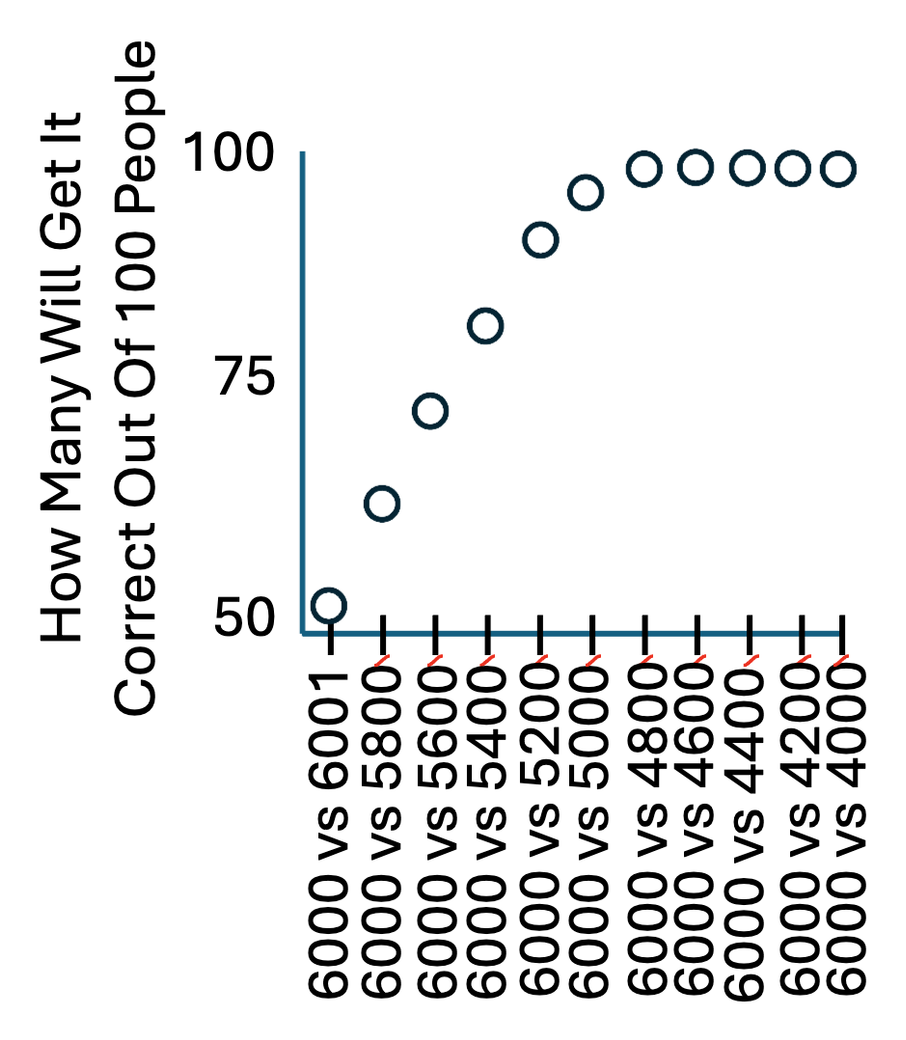
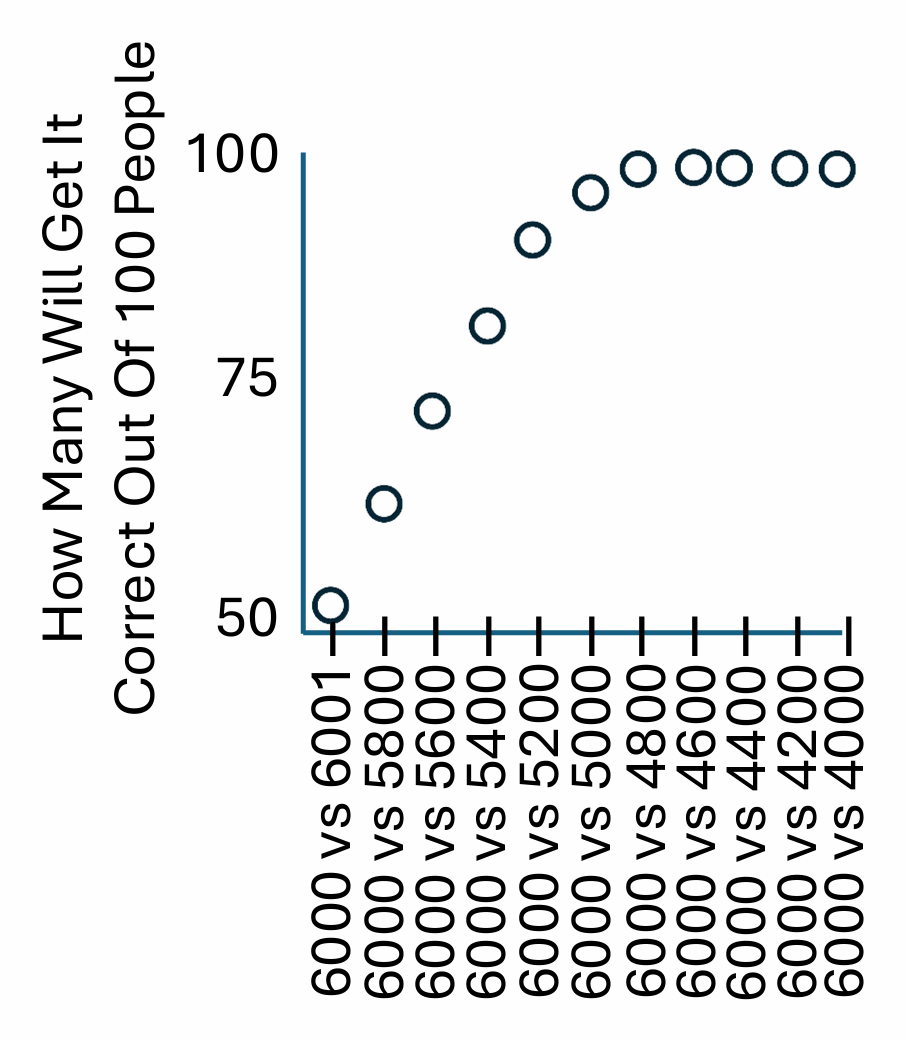
Swap to Only 2: Change Final Screen, Quotes, Fix H.png

diff --git a/PredictStimuliDiff/predict-stimuli-diff/app/pages.ts b/PredictStimuliDiff/predict-stimuli-diff/app/pages.ts
@@ -22,6 +22,7 @@ export type Page = {
   text: string;
   images?: Image[];
   layout?: "row" | "grid"; // how to arrange multiple images (default "row")
+  gapClass?: string; // optional Tailwind override for the spacing between images
   waitSeconds: number;
   requireSelection?: boolean;
   record?: boolean; // record the response (order + selection) when leaving the page
@@ -58,7 +59,7 @@ export const PAGES: Page[] = [
   },
   {
     id: "five-graphs",
-    text: "You will be presented with 6 different graphs that show the possible outcomes from many such comparisons and your job will be to decide which one appears to be the correct graph.",
+    text: "You will be presented with 2 different graphs that show the possible outcomes from many such comparisons and your job will be to decide which one appears to be the correct graph.",
     waitSeconds: 5,
   },
   {
@@ -93,7 +94,7 @@ export const PAGES: Page[] = [
   },
   {
     id: "preview",
-    text: "Now, imagine all of the possible combinations in between these two values. How do you expect the figure to look after many experimental trials of these sorts? We’ll show you 6 possible graphs.",
+    text: "Now, imagine all of the possible combinations in between these two values. How do you expect the figure to look after many experimental trials of these sorts? We’ll show you 2 possible graphs.",
     images: [{ src: "/E.png", alt: "Graph with only the easiest and hardest trials marked" }],
     waitSeconds: 5,
   },
@@ -101,14 +102,10 @@ export const PAGES: Page[] = [
     id: "question",
     text: "For each comparison dot, how many people out of 100 will choose the correct bag? Which pattern do you feel is the most likely to match the actual performance of regular human participants (choose one).",
     images: [
-      { src: "/F.png", alt: "Candidate graph 1", selectable: true },
-      { src: "/G.png", alt: "Candidate graph 2", selectable: true },
-      { src: "/H.png", alt: "Candidate graph 3", selectable: true },
-      { src: "/I.png", alt: "Candidate graph 4", selectable: true },
-      { src: "/J.png", alt: "Candidate graph 5", selectable: true },
-      { src: "/K.png", alt: "Candidate graph 6", selectable: true },
+      { src: "/G.png", alt: "Candidate graph 1", selectable: true, sizeClass: "max-h-[55vh] w-auto" },
+      { src: "/H.png", alt: "Candidate graph 2", selectable: true, sizeClass: "max-h-[55vh] w-auto" },
     ],
-    layout: "grid",
+    gapClass: "gap-16",
     waitSeconds: 10,
     requireSelection: true,
     record: true,

diff --git a/PredictStimuliDiff/predict-stimuli-diff/app/Experiment.tsx b/PredictStimuliDiff/predict-stimuli-diff/app/Experiment.tsx
@@ -73,8 +73,8 @@ export default function Experiment() {
   const order = orders[page.id] ?? images.map((_, i) => i);
   const containerClass =
     page.layout === "grid"
-      ? "grid w-full max-w-4xl grid-cols-2 place-items-center gap-x-3 gap-y-1 md:grid-cols-3"
-      : "flex flex-wrap items-start justify-center gap-3";
+      ? `grid w-full max-w-4xl grid-cols-2 place-items-center md:grid-cols-3 ${page.gapClass ?? "gap-x-3 gap-y-1"}`
+      : `flex flex-wrap items-start justify-center ${page.gapClass ?? "gap-3"}`;
   // Capped heights so a grid of images fits a typical screen without scrolling.
   const imgSize = page.layout === "grid" ? "max-h-52 w-auto" : "max-h-72 w-auto";
 
